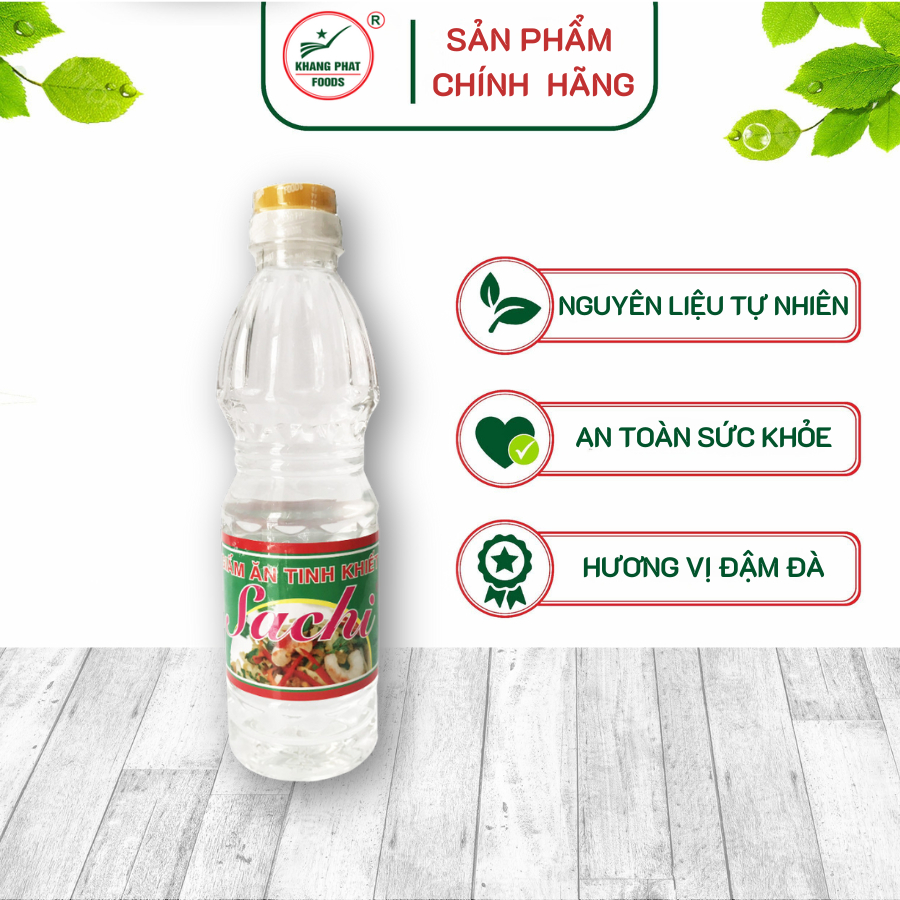
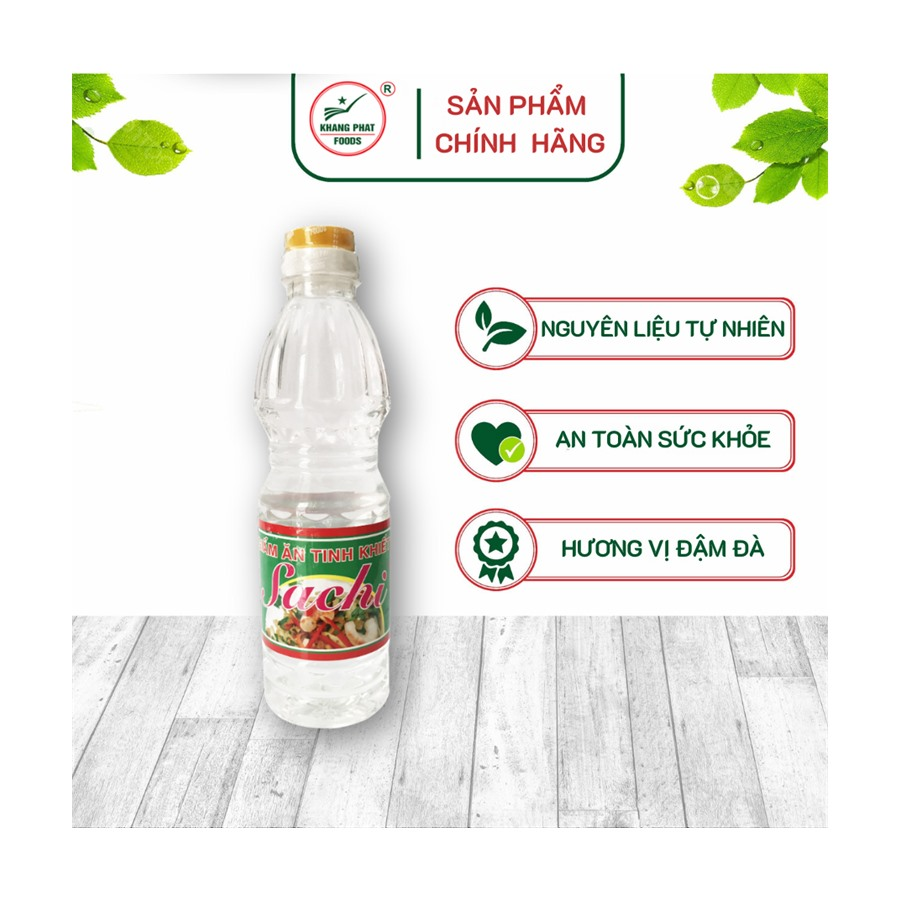
Dong bo nen anh san pham: dung bo anh studio nen trang + chuan hoa khung vuong dong nhat

diff --git a/index.html b/index.html
@@ -135,8 +135,8 @@ body{font-family:'Be Vietnam Pro',sans-serif;color:#1a1a1a;background:#fff;overf
 .product-card-badge{position:absolute;top:16px;left:16px;z-index:2;background:var(--red);color:#fff;padding:5px 12px;border-radius:20px;font-size:.72rem;font-weight:700;text-transform:uppercase}
 .product-card-badge.new{background:var(--green)}
 .product-card-badge.hot{background:var(--red)}
-.product-img-wrap{position:relative;overflow:hidden;height:240px;background:radial-gradient(circle at 50% 40%,#fff,#eef5ee)}
-.product-img-wrap img{width:100%;height:100%;object-fit:contain;padding:16px;transition:transform .6s}
+.product-img-wrap{position:relative;overflow:hidden;height:240px;background:radial-gradient(circle at 50% 42%,#ffffff 0%,#f4f9f5 100%)}
+.product-img-wrap img{width:100%;height:100%;object-fit:contain;padding:14px;transition:transform .6s;filter:drop-shadow(0 16px 24px rgba(0,0,0,.18))}
 .product-card:hover .product-img-wrap img{transform:scale(1.1)}
 .product-shimmer{position:absolute;inset:0;background:linear-gradient(135deg,rgba(255,255,255,0) 0%,rgba(255,255,255,.3) 50%,rgba(255,255,255,0) 100%);background-size:200% 200%;opacity:0;transition:opacity .3s}
 .product-card:hover .product-shimmer{opacity:1;animation:shimmer 1.5s infinite}
@@ -171,8 +171,8 @@ body{font-family:'Be Vietnam Pro',sans-serif;color:#1a1a1a;background:#fff;overf
 .catalog-grid{display:grid;grid-template-columns:repeat(auto-fill,minmax(238px,1fr));gap:24px;margin-top:48px}
 .pcard{background:#fff;border:1px solid #ececec;border-radius:18px;overflow:hidden;display:flex;flex-direction:column;transition:all .4s;box-shadow:0 4px 18px rgba(0,0,0,.05)}
 .pcard:hover{transform:translateY(-8px);box-shadow:var(--shadow-hover);border-color:var(--gold)}
-.pcard-img{background:radial-gradient(circle at 50% 40%,#ffffff,#eef5ee);padding:20px;aspect-ratio:1;display:flex;align-items:center;justify-content:center;position:relative;overflow:hidden}
-.pcard-img img{max-width:100%;max-height:100%;object-fit:contain;transition:transform .5s;filter:drop-shadow(0 10px 18px rgba(0,0,0,.14))}
+.pcard-img{background:radial-gradient(circle at 50% 42%,#ffffff 0%,#f4f9f5 100%);padding:14px;aspect-ratio:1;display:flex;align-items:center;justify-content:center;position:relative;overflow:hidden}
+.pcard-img img{max-width:100%;max-height:100%;object-fit:contain;transition:transform .5s;filter:drop-shadow(0 16px 24px rgba(0,0,0,.18))}
 .pcard:hover .pcard-img img{transform:scale(1.08) rotate(-1deg)}
 .pcard-badge{position:absolute;top:12px;left:12px;background:var(--green);color:#fff;font-size:.68rem;font-weight:700;padding:4px 11px;border-radius:20px;letter-spacing:.3px;box-shadow:0 3px 10px rgba(27,111,58,.3)}
 .pcard-body{padding:16px 16px 18px;display:flex;flex-direction:column;flex:1}
@@ -603,7 +603,7 @@ footer{background:#0a2e18;padding:60px 40px 30px}
       <div class="product-card reveal">
         <div class="product-card-badge hot">🔥 Bán Chạy</div>
         <div class="product-img-wrap">
-          <img src="products/uop-bo-ne-200.jpg" alt="Gia vị ướp bò né Khang Phát" loading="lazy">
+          <img src="products/w-bo-ne.jpg" alt="Gia vị ướp bò né Khang Phát" loading="lazy">
           <div class="product-shimmer"></div>
         </div>
         <div class="product-body">
@@ -620,7 +620,7 @@ footer{background:#0a2e18;padding:60px 40px 30px}
       <div class="product-card reveal">
         <div class="product-card-badge hot">🔥 Bán Chạy</div>
         <div class="product-img-wrap">
-          <img src="products/muoi-chanh-ot.png" alt="Muối chanh ớt đỏ Khang Phát" loading="lazy">
+          <img src="products/w-muoi-chanh-do.jpg" alt="Muối chanh ớt đỏ Khang Phát" loading="lazy">
           <div class="product-shimmer"></div>
         </div>
         <div class="product-body">
@@ -637,7 +637,7 @@ footer{background:#0a2e18;padding:60px 40px 30px}
       <div class="product-card reveal">
         <div class="product-card-badge new">✨ Mới</div>
         <div class="product-img-wrap">
-          <img src="products/sot-lau-bo.png" alt="Sốt lẩu bò Khang Phát" loading="lazy">
+          <img src="products/w-sot-lau-bo.jpg" alt="Sốt lẩu bò Khang Phát" loading="lazy">
           <div class="product-shimmer"></div>
         </div>
         <div class="product-body">
@@ -671,7 +671,7 @@ footer{background:#0a2e18;padding:60px 40px 30px}
       <div class="product-card reveal">
         <div class="product-card-badge">🌶 Cay Đặc</div>
         <div class="product-img-wrap">
-          <img src="products/sa-te-cay.png" alt="Sa tế cay Khang Phát" loading="lazy">
+          <img src="products/w-sa-te.jpg" alt="Sa tế cay Khang Phát" loading="lazy">
           <div class="product-shimmer"></div>
         </div>
         <div class="product-body">
@@ -688,7 +688,7 @@ footer{background:#0a2e18;padding:60px 40px 30px}
       <div class="product-card reveal">
         <div class="product-card-badge new">🥗 Chay</div>
         <div class="product-img-wrap">
-          <img src="products/nuoc-mam-chay-500.png" alt="Nước mắm chay Khang Phát" loading="lazy">
+          <img src="products/w-nuoc-mam.jpg" alt="Nước mắm chay Khang Phát" loading="lazy">
           <div class="product-shimmer"></div>
         </div>
         <div class="product-body">
@@ -761,7 +761,7 @@ footer{background:#0a2e18;padding:60px 40px 30px}
     <div class="catalog-grid reveal">
 
       <div class="pcard">
-        <div class="pcard-img"><span class="pcard-badge">Nước mắm chay</span><img src="products/nuoc-mam-chay-500.png" alt="Nước Mắm Chay Khang Phát 500ml"></div>
+        <div class="pcard-img"><span class="pcard-badge">Nước mắm chay</span><img src="products/w-nuoc-mam.jpg" alt="Nước Mắm Chay Khang Phát 500ml"></div>
         <div class="pcard-body">
           <div class="pcard-name">Nước Mắm Chay Khang Phát 500ml</div>
           <div class="pcard-price">💰 30.000₫</div>
@@ -770,7 +770,7 @@ footer{background:#0a2e18;padding:60px 40px 30px}
       </div>
 
       <div class="pcard">
-        <div class="pcard-img"><span class="pcard-badge">Nước mắm chay</span><img src="products/nuoc-mam-chay-250.png" alt="Nước Mắm Chay Khang Phát 250ml"></div>
+        <div class="pcard-img"><span class="pcard-badge">Nước mắm chay</span><img src="products/w-nuoc-mam-nho.jpg" alt="Nước Mắm Chay Khang Phát 250ml"></div>
         <div class="pcard-body">
           <div class="pcard-name">Nước Mắm Chay Khang Phát 250ml</div>
           <div class="pcard-price">💰 Liên hệ giá tốt</div>
@@ -779,7 +779,7 @@ footer{background:#0a2e18;padding:60px 40px 30px}
       </div>
 
       <div class="pcard">
-        <div class="pcard-img"><span class="pcard-badge">Gia vị ướp</span><img src="products/uop-bo-ne-80.png" alt="Gia Vị Ướp Bò Né Khang Phát 80g"></div>
+        <div class="pcard-img"><span class="pcard-badge">Gia vị ướp</span><img src="products/w-bo-ne.jpg" alt="Gia Vị Ướp Bò Né Khang Phát 80g"></div>
         <div class="pcard-body">
           <div class="pcard-name">Gia Vị Ướp Bò Né Khang Phát 80g</div>
           <div class="pcard-price">💰 Liên hệ giá tốt</div>
@@ -788,7 +788,7 @@ footer{background:#0a2e18;padding:60px 40px 30px}
       </div>
 
       <div class="pcard">
-        <div class="pcard-img"><span class="pcard-badge">Gia vị ướp</span><img src="products/uop-bo-ne-200.jpg" alt="Gia Vị Ướp Bò Né Khang Phát 200g"></div>
+        <div class="pcard-img"><span class="pcard-badge">Gia vị ướp</span><img src="products/w-bo-ne.jpg" alt="Gia Vị Ướp Bò Né Khang Phát 200g"></div>
         <div class="pcard-body">
           <div class="pcard-name">Gia Vị Ướp Bò Né Khang Phát 200g</div>
           <div class="pcard-price">💰 36.000₫</div>
@@ -797,7 +797,7 @@ footer{background:#0a2e18;padding:60px 40px 30px}
       </div>
 
       <div class="pcard">
-        <div class="pcard-img"><span class="pcard-badge">Gia vị ướp</span><img src="products/uop-muc-ne-80.png" alt="Gia Vị Ướp Mực Né Khang Phát 80g"></div>
+        <div class="pcard-img"><span class="pcard-badge">Gia vị ướp</span><img src="products/w-muc-ne.jpg" alt="Gia Vị Ướp Mực Né Khang Phát 80g"></div>
         <div class="pcard-body">
           <div class="pcard-name">Gia Vị Ướp Mực Né Khang Phát 80g</div>
           <div class="pcard-price">💰 Liên hệ giá tốt</div>
@@ -806,7 +806,7 @@ footer{background:#0a2e18;padding:60px 40px 30px}
       </div>
 
       <div class="pcard">
-        <div class="pcard-img"><span class="pcard-badge">Gia vị ướp</span><img src="products/uop-muc-ne-200.jpg" alt="Gia Vị Ướp Mực Né Khang Phát 200g"></div>
+        <div class="pcard-img"><span class="pcard-badge">Gia vị ướp</span><img src="products/w-muc-ne.jpg" alt="Gia Vị Ướp Mực Né Khang Phát 200g"></div>
         <div class="pcard-body">
           <div class="pcard-name">Gia Vị Ướp Mực Né Khang Phát 200g</div>
           <div class="pcard-price">💰 36.000₫</div>
@@ -815,7 +815,7 @@ footer{background:#0a2e18;padding:60px 40px 30px}
       </div>
 
       <div class="pcard">
-        <div class="pcard-img"><span class="pcard-badge">Tương dầu</span><img src="products/tuong-bo-kho-80.png" alt="Tương Dầu Bò Kho Khang Phát 80g"></div>
+        <div class="pcard-img"><span class="pcard-badge">Tương dầu</span><img src="products/w-tuong-bo-kho.jpg" alt="Tương Dầu Bò Kho Khang Phát 80g"></div>
         <div class="pcard-body">
           <div class="pcard-name">Tương Dầu Bò Kho Khang Phát 80g</div>
           <div class="pcard-price">💰 Liên hệ giá tốt</div>
@@ -824,7 +824,7 @@ footer{background:#0a2e18;padding:60px 40px 30px}
       </div>
 
       <div class="pcard">
-        <div class="pcard-img"><span class="pcard-badge">Tương dầu</span><img src="products/tuong-bo-200.jpg" alt="Tương Dầu Bò Khang Phát 200g"></div>
+        <div class="pcard-img"><span class="pcard-badge">Tương dầu</span><img src="products/w-tuong-bo-kho.jpg" alt="Tương Dầu Bò Khang Phát 200g"></div>
         <div class="pcard-body">
           <div class="pcard-name">Tương Dầu Bò Khang Phát 200g</div>
           <div class="pcard-price">💰 16.500₫</div>
@@ -833,7 +833,7 @@ footer{background:#0a2e18;padding:60px 40px 30px}
       </div>
 
       <div class="pcard">
-        <div class="pcard-img"><span class="pcard-badge">Nước sốt</span><img src="products/sot-uop-nuong.png" alt="Sốt Ướp Đồ Nướng Mama-Cook 200g"></div>
+        <div class="pcard-img"><span class="pcard-badge">Nước sốt</span><img src="products/w-sot-uop-nuong.jpg" alt="Sốt Ướp Đồ Nướng Mama-Cook 200g"></div>
         <div class="pcard-body">
           <div class="pcard-name">Sốt Ướp Đồ Nướng Mama-Cook 200g</div>
           <div class="pcard-price">💰 26.000₫</div>
@@ -842,7 +842,7 @@ footer{background:#0a2e18;padding:60px 40px 30px}
       </div>
 
       <div class="pcard">
-        <div class="pcard-img"><span class="pcard-badge">Nước sốt</span><img src="products/sot-lau-bo.png" alt="Sốt Lẩu Bò Khang Phát 250g"></div>
+        <div class="pcard-img"><span class="pcard-badge">Nước sốt</span><img src="products/w-sot-lau-bo.jpg" alt="Sốt Lẩu Bò Khang Phát 250g"></div>
         <div class="pcard-body">
           <div class="pcard-name">Sốt Lẩu Bò Khang Phát 250g</div>
           <div class="pcard-price">💰 40.000₫</div>
@@ -851,7 +851,7 @@ footer{background:#0a2e18;padding:60px 40px 30px}
       </div>
 
       <div class="pcard">
-        <div class="pcard-img"><span class="pcard-badge">Nước sốt</span><img src="products/sot-lau-thai.png" alt="Sốt Lẩu Thái Khang Phát 250g"></div>
+        <div class="pcard-img"><span class="pcard-badge">Nước sốt</span><img src="products/w-sot-lau-thai.jpg" alt="Sốt Lẩu Thái Khang Phát 250g"></div>
         <div class="pcard-body">
           <div class="pcard-name">Sốt Lẩu Thái Khang Phát 250g</div>
           <div class="pcard-price">💰 23.000₫</div>
@@ -860,7 +860,7 @@ footer{background:#0a2e18;padding:60px 40px 30px}
       </div>
 
       <div class="pcard">
-        <div class="pcard-img"><span class="pcard-badge">Sa tế</span><img src="products/sa-te-cay.png" alt="Sa Tế Cay Khang Phát 60g"></div>
+        <div class="pcard-img"><span class="pcard-badge">Sa tế</span><img src="products/w-sa-te.jpg" alt="Sa Tế Cay Khang Phát 60g"></div>
         <div class="pcard-body">
           <div class="pcard-name">Sa Tế Cay Khang Phát 60g</div>
           <div class="pcard-price">💰 12.000₫</div>
